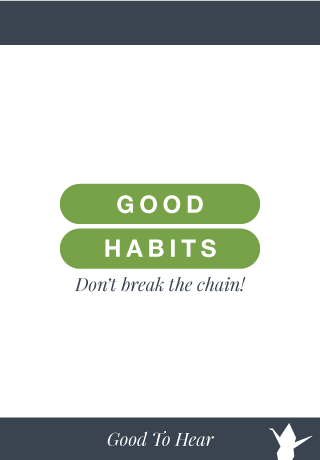
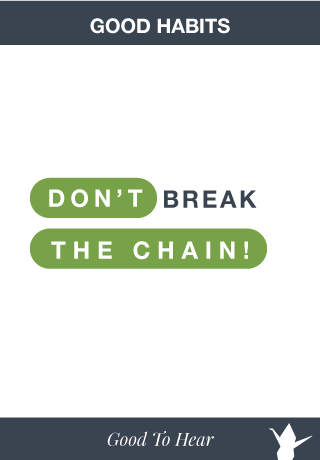
loads of bits

Changed region(s): [[0.0938, 0.3652, 0.8438, 0.6391], [0.2812, 0.0304, 0.7188, 0.0913]]

diff --git a/app/controllers/information_screen.rb b/app/controllers/information_screen.rb
@@ -1,4 +1,9 @@
 class InformationScreen < UIViewController
+  PAGES = [ 
+      'home_screen', 'detail_screen'
+    ]
+  
+  ASSET_HEIGHT = 460
   def init
     if super
       build
@@ -7,10 +12,58 @@ class InformationScreen < UIViewController
   end
   
   def build
-    navigationItem.title = "Information"
-    @info = UIImageView.alloc.initWithImage UIImage.imageNamed "information"
-    view.addSubview @info
+    self.view.backgroundColor = UIColor.blackColor
+    navigationItem.title = "INFO"
+    # @info = UIImageView.alloc.initWithImage UIImage.imageNamed "information"
+    # view.addSubview @info
+    
+    @gallery = SwipeView.alloc.initWithFrame [[0,0],view.frame.size]
+    @gallery.dataSource = self
+    @gallery.delegate = self
+    
+    @gallery.itemSize = @gallery.frame.size
+    @gallery.alignment = SwipeViewAlignmentCenter
+    @gallery.pagingEnabled = true
+    @gallery.itemsPerPage = 1
+
+    view.addSubview @gallery
+    
+    @paging = UIPageControl.alloc.initWithFrame [[0,ASSET_HEIGHT - INSET], [320,30]]
+    @paging.numberOfPages = PAGES.count
+    view.addSubview @paging
+    
+    w = 80
+    @done = Button.create [[300-w,7],[w,30]], title: "Close", color: Colors::COBALT 
+    @done.when(UIControlEventTouchUpInside) do
+      dismissViewControllerAnimated true, completion: ->(){}
+    end
+    view.addSubview @done
+    
   end
   
+  def numberOfItemsInSwipeView swipeView
+    PAGES.count
+  end
+  INSET = 44
+  def swipeView swipeView, viewForItemAtIndex: index, reusingView: view # watch out for the scope of view here
+    unless view
+      view = UIImageView.alloc.initWithFrame [[INSET,INSET], [320 - INSET * 2, ASSET_HEIGHT - INSET * 2]] # 460 reflects the asset size, not the screen size
+      Shadow.addTo view
+    end
+    view.image = UIImage.imageNamed PAGES[index]
+    view
+  end
+  def swipeViewCurrentItemIndexDidChange swipeView
+    @paging.currentPage = swipeView.currentPage
+  end
+  def swipeViewItemSize swipeView
+    self.view.frame.size
+  end
+  
+  # def swipeView swipeView, didSelectItemAtIndex: index
+  #   PAGES.times do |i|
+  #     
+  #   end
+  # end
 
 end

diff --git a/app/controllers/main_view_controller.rb b/app/controllers/main_view_controller.rb
@@ -20,29 +20,41 @@ class MainViewController < UITableViewController
     self.view.dataSource = self
     self.view.reloadData
 
-    @info_button = UIBarButtonItem.alloc.initWithImage UIImage.imageNamed("info"), style: UIBarButtonItemStyleDone,  target:self, action: 'showInfo'
-    navigationItem.leftBarButtonItem = @info_button
+    @info_button = BarImageButton.alloc.initWithImageNamed('info')
+    @info_button.when(UIControlEventTouchUpInside) do
+      self.showInfo
+    end
+    navigationItem.leftBarButtonItem = UIBarButtonItem.alloc.initWithCustomView @info_button
     
-    @add_button = UIBarButtonItem.alloc.initWithImage UIImage.imageNamed("add"), style: UIBarButtonItemStyleDone,  target:self, action: 'addItem'
-    navigationItem.rightBarButtonItem = @add_button
+    @add_button = BarImageButton.alloc.initWithImageNamed('add')
+    @add_button.when(UIControlEventTouchUpInside) do
+      self.addItem
+    end
+    navigationItem.rightBarButtonItem = UIBarButtonItem.alloc.initWithCustomView @add_button
+     
+    back =  UIBarButtonItem.alloc.init
+    back.title = "Back"
+    self.navigationItem.backBarButtonItem = back
+     
   end
+  
   def refresh
-    loadGroups
-    self.view.reloadData
     @now = Time.now
     @day_navigation.date = @now unless @day_navigation.nil?
+    loadGroups
+    self.view.reloadData
     
   end
   def viewWillAppear animated
     refresh()
-    self.navigationItem.title = "Good Habits"
+    self.navigationItem.title = "GOOD HABITS"
   end
   def viewWillDisappear animated
-    self.navigationItem.title = "All"
+    # self.navigationItem.title = "ALL"
   end
   def showInfo
     info = InformationScreen.alloc.init
-    navigationController.pushViewController info, animated: true
+    presentViewController info, animated: true, completion: ->(){}
   end
   def addItem
     new_habit = Habit.new

diff --git a/app/views/count_view.rb b/app/views/count_view.rb
@@ -31,16 +31,37 @@ class CountView < UIView
     @background.backgroundColor = Colors::COBALT
     @background.layer.cornerRadius = RADIUS
     
+    halfway = frame.size.width * 0.5
     # add two layers: [] + O to make the right hand segment
     @square, @circle = CALayer.layer, CALayer.layer
-    @square.frame = [[RADIUS, 0], [frame.size.width * 0.5 - RADIUS, frame.size.height]]
-    @circle.frame = [[0, 0], [frame.size.width * 0.5, frame.size.height]]
+    @square.frame = [[RADIUS, 0], [halfway - RADIUS, frame.size.height]]
+    @circle.frame = [[0, 0], [halfway, frame.size.height]]
     @circle.cornerRadius = RADIUS
     
-    [@square,@circle].each {|l| @background.layer.addSublayer l }
+    @gap = CALayer.layer
+    @gap.backgroundColor = UIColor.whiteColor.CGColor
+    @gap.frame = [[halfway - 1, 0], [2,frame.size.height] ]
+    
+    [@square,@circle,@gap].each {|l| @background.layer.addSublayer l }
 
   end
+  
+  def highlighted= highlighted
+    return if @color.nil?
+    CATransaction.begin
+    CATransaction.setDisableActions true
+    color = highlighted ? UIColor.whiteColor : @color
+    [@square,@circle].each {|l| l.backgroundColor = color.CGColor }
+    @background.backgroundColor = highlighted ? UIColor.whiteColor : Colors::COBALT  # dup
+    [@current_chain_label, @longest_chain_label].each do |label|
+      label.textColor = highlighted ? @color : UIColor.whiteColor # dup
+    end
+    @gap.backgroundColor = highlighted ? @color.CGColor : UIColor.whiteColor.CGColor # dup
+    CATransaction.commit
+  end
+  
   def total_color= value
+    @color = value
     [@square,@circle].each {|l| l.backgroundColor = value.CGColor }
   end
   def text= value

diff --git a/app/controllers/habit_detail_view_controller.rb b/app/controllers/habit_detail_view_controller.rb
@@ -22,10 +22,8 @@ class HabitDetailViewController < UIViewController
   end
   
   def build
-    self.navigationItem.title = "Habit"
-    back =  UIBarButtonItem.alloc.init
-    back.title = "Back"
-    self.navigationItem.backBarButtonItem = back # not doing anything
+    self.navigationItem.title = "EDIT"
+
     view.autoresizesSubviews = false
 
     @calendar = CalendarViewController.alloc.init
@@ -66,8 +64,11 @@ class HabitDetailViewController < UIViewController
     
     
     # navigationItem.leftBarButtonItem.titleLabel.textColor = UIColor.blackColor
-    @active = UIBarButtonItem.alloc.initWithImage UIImage.imageNamed("pause"), style: UIBarButtonItemStyleDone,  target:self, action: 'toggleActive'
-    navigationItem.rightBarButtonItem = @active
+    @active = BarImageButton.alloc.initWithImageNamed('pause')
+    @active.when(UIControlEventTouchUpInside) do
+      self.toggleActive
+    end
+    navigationItem.rightBarButtonItem = UIBarButtonItem.alloc.initWithCustomView @active
     
     
     @inactive_overlay = InactiveOverlayView.alloc.initWithFrame [[0,0],view.frame.size]

diff --git a/app/helpers/appearance.rb b/app/helpers/appearance.rb
@@ -2,8 +2,8 @@ class Appearance
   def self.init
     UINavigationBar.appearance.setBackgroundImage UIImage.imageNamed("nav.png"), forBarMetrics: UIBarMetricsDefault
     UINavigationBar.appearance.setBackgroundColor "#3A4450".to_color
-    UINavigationBar.appearance.setTitleTextAttributes UITextAttributeFont => UIFont.fontWithName('PlayfairDisplay-Italic', size: 20)
-    UINavigationBar.appearance.setTitleVerticalPositionAdjustment -3, forBarMetrics: UIBarMetricsDefault
+    UINavigationBar.appearance.setTitleTextAttributes UITextAttributeFont => UIFont.fontWithName('HelveticaNeue-Bold', size: 20)
+    # UINavigationBar.appearance.setTitleVerticalPositionAdjustment -3, forBarMetrics: UIBarMetricsDefault
     
     UIBarButtonItem.appearanceWhenContainedIn(UINavigationBar,nil).setBackgroundImage UIImage.imageNamed("blank"), forState:UIControlStateNormal, barMetrics:UIBarMetricsDefault
     backImage = UIImage.imageNamed("back").resizableImageWithCapInsets UIEdgeInsetsMake(10, 15, 10, 2) # top, left, bottom, right

diff --git a/app/controllers/calendar/month_grid_view_controller.rb b/app/controllers/calendar/month_grid_view_controller.rb
@@ -10,6 +10,7 @@ class MonthGridViewController < UIViewController
   end
   
   def viewDidLoad
+    @queue = Dispatch::Queue.concurrent('goodtohear.habits.calendar')
     next_x = 0
     next_y = 0
     @cells = []
@@ -29,12 +30,17 @@ class MonthGridViewController < UIViewController
   end
   #
   def showChainsForHabit habit
+    
     @habit = habit
     for grid_index in CELL_INDICES
       cell = @cells[grid_index]
       comparison = Time.now > cell.day
-      state = cellStateForHabit habit, date: cell.day
-      cell.setSelectionState state, color: habit.color
+      Dispatch::Queue.concurrent.async do
+        state = cellStateForHabit habit, date: cell.day
+        Dispatch::Queue.main.sync do
+          cell.setSelectionState state, color: habit.color
+        end
+      end
     end
   end
   def cellStateForHabit habit, date: date

diff --git a/app/helpers/button.rb b/app/helpers/button.rb
@@ -17,7 +17,7 @@ class Button < UIControl
     
     @label = UILabel.alloc.initWithFrame [[10,0], [self.frame.size.width - 20,self.frame.size.height]]
     @label.textAlignment = UITextAlignmentCenter
-    @label.font = UIFont.fontWithName "HelveticaNeue-Bold", size: 24
+    @label.font = UIFont.fontWithName "HelveticaNeue-Bold", size: 20
     @label.textColor = UIColor.whiteColor
     @label.adjustsFontSizeToFitWidth = true
     @label.backgroundColor = UIColor.clearColor
@@ -32,6 +32,9 @@ class Button < UIControl
   
   def title= text
     @label.text = text.to_s.upcase
+    return if text.nil? or text == ''
+    textHeight = text.sizeWithFont(@label.font).height
+    @label.frame = [[@label.frame.origin.x,(self.frame.size.height - textHeight) * 0.5 ],[@label.frame.size.width,textHeight]]
   end
   def color= color
     @color = color

diff --git a/app/views/bar_image_button.rb b/app/views/bar_image_button.rb
@@ -1,0 +1,24 @@
+class BarImageButton < UIControl
+  WIDTH = 34
+  def initWithImageNamed(imageName)
+    if init
+      build(imageName)
+    end
+    self
+  end
+  def build(imageName)
+    @image_view = UIImageView.alloc.initWithImage UIImage.imageNamed imageName
+    @image_view.contentMode = UIViewContentModeCenter
+    addSubview @image_view
+    self.frame = [CGPointZero,[WIDTH, @image_view.frame.size.height]]
+    @image_view.frame = self.frame
+  end
+  def setHighlighted highlighted
+    super
+    # self.backgroundColor = highlighted ? UIColor.blackColor : @color
+    layer.opacity = highlighted ? 0.7 : 1
+  end
+  def image= image
+    @image_view.image = image
+  end
+end

diff --git a/app/views/habit_cell.rb b/app/views/habit_cell.rb
@@ -33,6 +33,7 @@ class HabitCell < UITableViewCell
   end
 
   def set_color color
+    @color = color
     @checkbox.set_color color
     @count.total_color = color
     @backgroundColorView.backgroundColor = color
@@ -42,6 +43,7 @@ class HabitCell < UITableViewCell
     super
     @backgroundColorView.hidden = !selected
     @input.textColor = selected ? UIColor.whiteColor : textColor
+    @count.highlighted = selected
   end
   
   # def touchesBegan touches, withEvent: event

diff --git a/app/views/calendar/calendar_day_view.rb b/app/views/calendar/calendar_day_view.rb
@@ -1,6 +1,6 @@
 class CalendarDayView < UIView
   
-  FUTURE_COLOR = '#8A95A1'.to_color
+  FUTURE_COLOR = '#A6B4C3'.to_color
   MISSED_COLOR = '#C1272D'.to_color
   ON_COLOR = UIColor.whiteColor
   BEFORE_START_COLOR = '#3A4450'.to_color

diff --git a/app/helpers/shadow.rb b/app/helpers/shadow.rb
@@ -1,0 +1,9 @@
+class Shadow
+  def self.addTo view
+    view.layer.shadowColor = UIColor.blackColor.CGColor
+    view.layer.shadowOpacity = 0.3
+    view.layer.shadowRadius = 4
+    view.layer.shadowOffset = [0,2]
+  end
+  
+end

diff --git a/app/app_delegate.rb b/app/app_delegate.rb
@@ -12,7 +12,7 @@ class AppDelegate
     true
   end
   
-  def applicationDidBecomeActive application
+  def applicationWillEnterForeground application
     Habit.reschedule_all_notifications
     @main.refresh
   end
